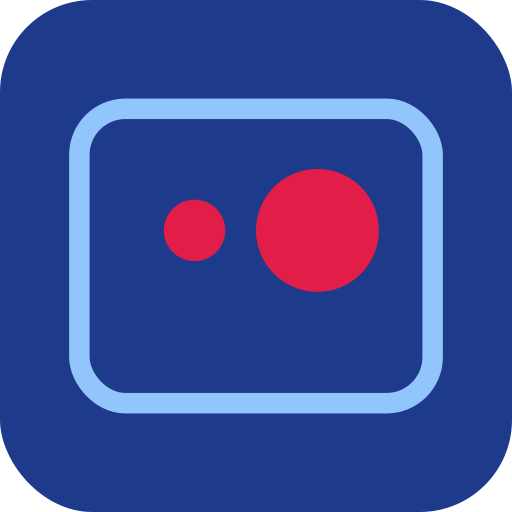
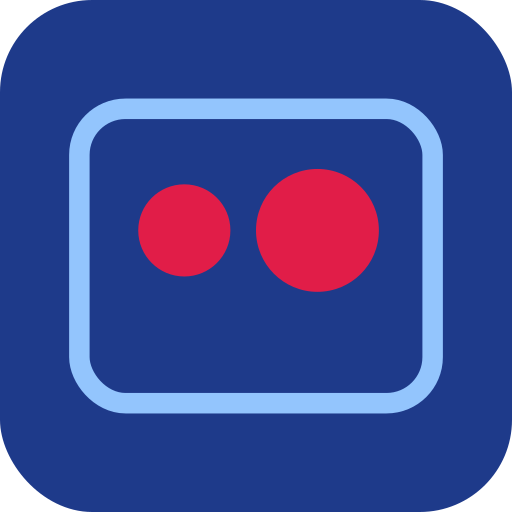
bpm-v53: left eye 50% bigger, nudged left

Changed region(s): [[0.25, 0.3438, 0.4688, 0.5625]]

diff --git a/app.js b/app.js
@@ -740,7 +740,7 @@ async function unzipBlob(b){const T=Math.max(0,b.size-65557),tail=new DataView(a
   if(meth===8)blob=await new Response(blob.stream().pipeThrough(new DecompressionStream('deflate-raw'))).blob();else if(meth!==0)throw new Error('unsupported compression in '+name);out.set(name,{blob,crc})}return out}
 const fsafe=s=>String(s||'project').replace(/[\\/:*?"<>|]+/g,'_').trim()||'project';
 async function buildBpm(pid,withLearned,onP){const pr=await get('projects',pid),pls=(await all('plans')).filter(p=>p.projectId===pid).sort((a,b)=>a.added-b.added),files=[];
- const man={format:BPM_FMT,version:BPM_VER,app:'bpm-v52',saved:new Date().toISOString(),project:pr,plans:[],markups:[],pins:[],media:[],layers:{},meta:{},learned:null,mycodes:null};
+ const man={format:BPM_FMT,version:BPM_VER,app:'bpm-v53',saved:new Date().toISOString(),project:pr,plans:[],markups:[],pins:[],media:[],layers:{},meta:{},learned:null,mycodes:null};
  for(const pl of pls){const{blob,...m}=pl,f=`plans/${pl.id}.${pl.kind==='pdf'?'pdf':((blob?.type||'').split('/')[1]||'img')}`;if(blob)files.push({name:f,blob});man.plans.push({...m,file:blob?f:null,type:blob?.type||'',size:blob?.size||0});
   man.markups.push(...await byIdx('markups','planId',pl.id));const ps=await byIdx('pins','planId',pl.id);man.pins.push(...ps);
   for(const p of ps)for(const md of await byIdx('media','pinId',p.id)){const{blob:mb,annot,...r}=md,e={...r,file:null};if(mb){e.file=`media/${md.id}`;e.type=mb.type;e.size=mb.size;files.push({name:e.file,blob:mb})}if(annot){e.annotFile=`media/${md.id}-annot`;e.annotType=annot.type;files.push({name:e.annotFile,blob:annot})}man.media.push(e)}

diff --git a/sw.js b/sw.js
@@ -1,6 +1,6 @@
 // bpm-v38: app files are network-first (fresh code whenever online, cache when offline); the big vendor libraries are cache-first.
 // Precache bypasses the HTTP cache (cache:'reload') so an install can't mix old and new files.
-const C='bpm-v52',A=['./','index.html','app.js','app.css','detect.js','codes.json','vendor/pdf-lib.min.js','manifest.json','icon.svg','icon-192.png','icon-512.png','icon-maskable-512.png','vendor/pdf.min.js','vendor/pdf.worker.min.js','vendor/jspdf.umd.min.js'];
+const C='bpm-v53',A=['./','index.html','app.js','app.css','detect.js','codes.json','vendor/pdf-lib.min.js','manifest.json','icon.svg','icon-192.png','icon-512.png','icon-maskable-512.png','vendor/pdf.min.js','vendor/pdf.worker.min.js','vendor/jspdf.umd.min.js'];
 self.addEventListener('install',e=>{e.waitUntil(caches.open(C).then(c=>c.addAll(A.map(u=>new Request(u,{cache:'reload'})))));self.skipWaiting()});
 self.addEventListener('activate',e=>{e.waitUntil(caches.keys().then(k=>Promise.all(k.filter(x=>x!==C).map(x=>caches.delete(x)))).then(()=>self.clients.claim()))});
 self.addEventListener('fetch',e=>{const q=e.request;if(q.method!=='GET'||new URL(q.url).origin!==location.origin)return;
